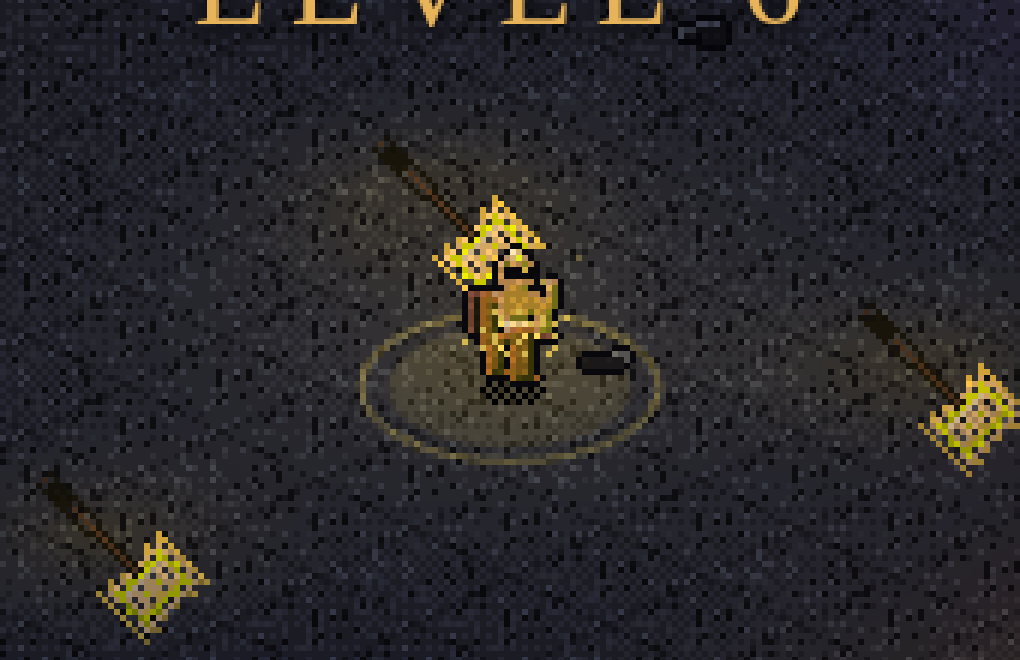
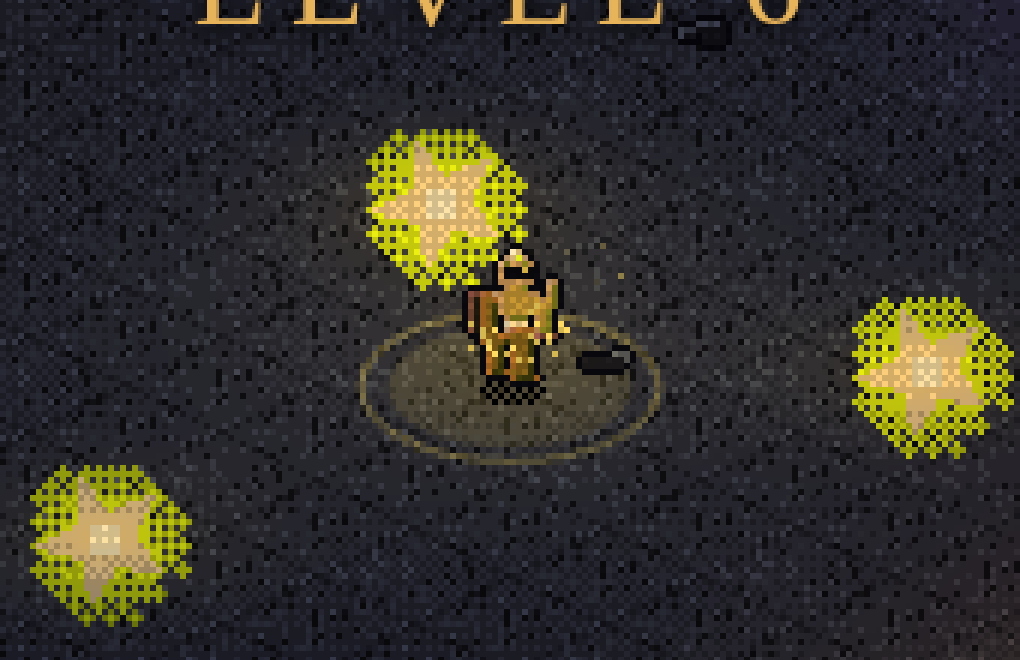
Rename Hammer of Gods Spin to Holy Smite, a turning star
The hidden paladin skill now circles a glowing five-pointed star instead
of the hammer: a new 'star' sprite with a bright core, six spin frames
and an ordered-dither halo that shimmers, casting the same warm light.
Stacking rings, timers and hit boxes are unchanged.

Claude-Session: https://claude.ai/code/session_01QTYkTZLkkmMsHgterwfJcv

diff --git a/src/data/skills.ts b/src/data/skills.ts
@@ -27,7 +27,7 @@ export interface BuffMods {
   /** Melee reach in px while active. */
   meleeRange?: number;
   /** Things circling the hero that cut what they pass: daggers by default, or one spinning hammer. `spin` is radians per second. */
-  orbitDaggers?: { count: number; radius: number; damageMult: number; hitCooldown: number; shape?: 'dagger' | 'hammer'; spin?: number; /** Hit box of each orbiter in px; it only strikes what it actually touches. */ hitRadius?: number; /** Recasting while active adds another ring, `ringGap` px further out, up to `stacks`; each ring keeps its own timer and the outermost goes when the oldest runs out. */ stacks?: number; ringGap?: number };
+  orbitDaggers?: { count: number; radius: number; damageMult: number; hitCooldown: number; shape?: 'dagger' | 'hammer' | 'star'; spin?: number; /** Hit box of each orbiter in px; it only strikes what it actually touches. */ hitRadius?: number; /** Recasting while active adds another ring, `ringGap` px further out, up to `stacks`; each ring keeps its own timer and the outermost goes when the oldest runs out. */ stacks?: number; ringGap?: number };
   /** Smoke bomb dropped when the buff ends. */
   endSmoke?: { radius: number; slowDuration: number };
 }
@@ -172,7 +172,7 @@ export const SKILLS: Record<string, SkillDef> = {
   ground_stomp: { id: 'ground_stomp', name: 'Ground Stomp', classId: K, tier: 'base', description: 'Stomp the ground, damaging and slowing nearby enemies.', manaCost: 30, cooldown: 7000, reqLevel: 15, element: 'physical', upgradesTo: 'ground_stomp_ult', effect: { kind: 'aoe', damageMult: 1.5, radius: 120, at: 'self', slow: 2000, visual: 'stomp' } },
   ground_stomp_ult: { id: 'ground_stomp_ult', name: 'Ground Stomp', classId: K, tier: 'ultimate', description: 'A quake that stuns everything in a wide circle.', manaCost: 50, cooldown: 18000, rank5Cooldown: 12000, rankBonus: 0.35, reqLevel: 20, element: 'physical', effect: { kind: 'aoe', damageMult: 2.0, radius: 300, at: 'self', stun: 2000, visual: 'stomp' } },
   prayer: { id: 'prayer', name: 'Prayer', classId: K, tier: 'pledge', pledgeId: 'paladin', description: 'Regenerate 5% of your life every second for ten seconds.', manaCost: 40, cooldown: 25000, rank5Cooldown: 16000, reqLevel: 10, element: 'physical', effect: { kind: 'buff', duration: 10000, mods: { regenPct: 5 } } },
-  hammer_of_gods_spin: { id: 'hammer_of_gods_spin', name: 'Hammer of Gods Spin', classId: K, tier: 'pledge', pledgeId: 'paladin', hidden: true, description: 'The holy hammer whirls around you for three seconds, striking everything it passes. Cast again while it spins for a second and a third hammer further out.', manaCost: 35, cooldown: 12000, rank5Cooldown: 7000, rankBonus: 0.35, reqLevel: 5, element: 'physical', effect: { kind: 'buff', duration: 3000, mods: { orbitDaggers: { count: 1, radius: 60, damageMult: 2.5, hitCooldown: 500, shape: 'hammer', spin: 7, hitRadius: 18, stacks: 3, ringGap: 40 } } } },
+  holy_smite: { id: 'holy_smite', name: 'Holy Smite', classId: K, tier: 'pledge', pledgeId: 'paladin', hidden: true, description: 'A holy star circles you for three seconds, striking everything it passes. Cast again while it turns for a second and a third star further out.', manaCost: 35, cooldown: 12000, rank5Cooldown: 7000, rankBonus: 0.35, reqLevel: 5, element: 'physical', effect: { kind: 'buff', duration: 3000, mods: { orbitDaggers: { count: 1, radius: 60, damageMult: 2.5, hitCooldown: 500, shape: 'star', spin: 7, hitRadius: 16, stacks: 3, ringGap: 40 } } } },
   hammer_of_gods: { id: 'hammer_of_gods', name: 'Hammer of Gods', classId: K, tier: 'pledge', pledgeId: 'paladin', description: 'Hurl a holy hammer that passes through everything and returns to you.', manaCost: 35, cooldown: 12000, rank5Cooldown: 7000, rankBonus: 0.35, reqLevel: 5, element: 'physical', effect: { kind: 'projectile', damageMult: 2.5, projSpeed: 840, maxRange: 350, pierce: Infinity, returns: true, throughWalls: true, shape: 'hammer', projRadius: 18 } },
   sanctuary: { id: 'sanctuary', name: 'Sanctuary', classId: K, tier: 'pledge', pledgeId: 'paladin', description: 'Consecrate the ground: +200 armor and +50% resistances while you stand in it.', manaCost: 50, cooldown: 40000, rank5Cooldown: 28000, reqLevel: 15, element: 'physical', effect: { kind: 'zone', zone: 'sanctuary', duration: 20000, radius: 300, mods: { armor: 200, allResists: 50 } } },
   rock_solid: { id: 'rock_solid', name: 'Rock Solid', classId: K, tier: 'pledge', pledgeId: 'titan', description: '+200 armor and a physical shield equal to your max life for ten seconds.', manaCost: 55, cooldown: 35000, rank5Cooldown: 22000, reqLevel: 15, element: 'physical', effect: { kind: 'buff', duration: 10000, mods: { armor: 200, shieldPct: 100, shieldPhysicalOnly: true } } },

diff --git a/src/sim/world.test.ts b/src/sim/world.test.ts
@@ -254,21 +254,21 @@ describe('bulk selling', () => {
 });
 
 describe('hidden skills', () => {
-  it('Hammer of Gods Spin stays off the list until the dev toggle shows it', () => {
+  it('Holy Smite stays off the list until the dev toggle shows it', () => {
     const ids = () => skillsFor('knight', 'paladin').map((s) => s.id);
-    expect(ids()).not.toContain('hammer_of_gods_spin');
+    expect(ids()).not.toContain('holy_smite');
     SKILL_RULES.showHidden = true;
-    expect(ids()).toContain('hammer_of_gods_spin');
+    expect(ids()).toContain('holy_smite');
     SKILL_RULES.showHidden = false;
   });
 
-  it('the spinning hammer circles the hero for three seconds and strikes what it passes', () => {
+  it('Holy Smite circles the hero for three seconds and strikes what it passes', () => {
     const w = new World(createPlayer('knight', 'paladin'), 141);
     w.travel('arena');
     w.player.level = 10;
     w.player.skillPoints = 5;
-    w.player.skillRanks.hammer_of_gods_spin = 1;
-    w.player.slots[1] = 'hammer_of_gods_spin';
+    w.player.skillRanks.holy_smite = 1;
+    w.player.slots[1] = 'holy_smite';
     const near = w.spawnEnemy(MONSTERS.ice_golem!, w.px + 1.9, w.pz); // on the 60 px ring
     const far = w.spawnEnemy(MONSTERS.ice_golem!, w.px + 6, w.pz);
     const inside = w.spawnEnemy(MONSTERS.blood_bat!, w.px - 0.3, w.pz); // a bat hugging the hero, well inside the ring
@@ -280,28 +280,28 @@ describe('hidden skills', () => {
     near.maxHp = near.hp = 100000;
     const farHp = far.hp;
     w.castSlot(1);
-    expect(w.buffs.some((b) => b.id === 'hammer_of_gods_spin')).toBe(true);
+    expect(w.buffs.some((b) => b.id === 'holy_smite')).toBe(true);
     run(w, 1);
     const afterOne = near.hp;
     expect(afterOne).toBeLessThan(100000);
     run(w, 2.5);
     expect(near.hp).toBeLessThan(afterOne);
     expect(far.hp).toBe(farHp);
-    // The hammer is a hit box on its path, not a field: a monster inside the ring is never touched
+    // The star is a hit box on its path, not a field: a monster inside the ring is never touched
     expect(inside.hp).toBe(insideHp);
-    expect(w.buffs.some((b) => b.id === 'hammer_of_gods_spin')).toBe(false);
+    expect(w.buffs.some((b) => b.id === 'holy_smite')).toBe(false);
   });
 
   it('recasting adds up to three rings, and the outermost goes when the oldest timer ends', () => {
     const w = new World(createPlayer('knight', 'paladin'), 142);
     w.travel('arena');
     w.player.level = 10;
-    w.player.skillRanks.hammer_of_gods_spin = 1;
-    w.player.slots[1] = 'hammer_of_gods_spin';
+    w.player.skillRanks.holy_smite = 1;
+    w.player.slots[1] = 'holy_smite';
     w.devStats.cdr = 90;
     w.recomputeStats();
     expect(w.derived.cdr).toBe(90);
-    const rings = () => w.buffs.find((b) => b.id === 'hammer_of_gods_spin')?.data.rings ?? 0;
+    const rings = () => w.buffs.find((b) => b.id === 'holy_smite')?.data.rings ?? 0;
     w.castSlot(1);
     run(w, 1);
     w.cooldowns = {};
@@ -311,7 +311,7 @@ describe('hidden skills', () => {
     w.castSlot(1);
     expect(rings()).toBe(3);
     w.cooldowns = {};
-    expect(castSkill(w, 'hammer_of_gods_spin', null).ok).toBe(false); // three is the limit
+    expect(castSkill(w, 'holy_smite', null).ok).toBe(false); // three is the limit
     run(w, 1.05); // the first ring's three seconds are up
     expect(rings()).toBe(2);
     run(w, 1);

diff --git a/src/gen/pixel/props.ts b/src/gen/pixel/props.ts
@@ -297,6 +297,56 @@ export function projectileProp(shape: ProjectileShape, color: number, pal: Palet
       frames.push(b.toCanvas());
       return prop(frames, 6 * s, s, 1);
     }
+    case 'star': {
+      // A holy star: a five-pointed star of light with a bright core and a
+      // flickering halo, turning through six angles
+      const N = 30 * s;
+      const C = 15 * s;
+      const glow = ramp(0xffe070, pal.contrast);
+      for (let f = 0; f < 6; f++) {
+        const b = new PixelBuffer(N, N);
+        const rot = (f / 6) * ((Math.PI * 2) / 5);
+        const outer = 12 * s;
+        const inner = 5 * s;
+        const pts: [number, number][] = [];
+        for (let k = 0; k < 10; k++) {
+          const a = rot + (k / 10) * Math.PI * 2 - Math.PI / 2;
+          const rr = k % 2 === 0 ? outer : inner;
+          pts.push([C + Math.cos(a) * rr, C + Math.sin(a) * rr]);
+        }
+        // Halo first, dithered and shifting so it flickers
+        for (let y = 0; y < N; y++) {
+          for (let x = 0; x < N; x++) {
+            const d = Math.hypot(x - C, y - C);
+            if (d > outer + 2 * s || d < inner) continue;
+            const density = Math.max(0, 1 - (d - inner) / (outer + 2 * s - inner));
+            // Ordered 4x4 dither, shifted a row per frame so the glow shimmers instead of streaking
+            const bayer = [0, 8, 2, 10, 12, 4, 14, 6, 3, 11, 1, 9, 15, 7, 13, 5][((y + f) % 4) * 4 + (x % 4)]!;
+            if (bayer < density * 0.45 * 16) b.set(x, y, glow[0]);
+          }
+        }
+        // Fill the star: a point is inside when it is inside any of the five kite triangles from the centre
+        for (let y = 0; y < N; y++) {
+          for (let x = 0; x < N; x++) {
+            let inside = false;
+            for (let k = 0; k < 10 && !inside; k++) {
+              const [ax, ay] = pts[k]!;
+              const [bx, by] = pts[(k + 1) % 10]!;
+              const d1 = (bx - ax) * (y - ay) - (by - ay) * (x - ax);
+              const d2 = (C - bx) * (y - by) - (C - by) * (x - bx);
+              const d3 = (ax - C) * (y - C) - (ay - C) * (x - C);
+              inside = (d1 >= 0 && d2 >= 0 && d3 >= 0) || (d1 <= 0 && d2 <= 0 && d3 <= 0);
+            }
+            if (!inside) continue;
+            const d = Math.hypot(x - C, y - C);
+            b.set(x, y, d < 3 * s ? glow[3] : glow[2]);
+          }
+        }
+        b.outline(glow[0]);
+        frames.push(b.toCanvas());
+      }
+      return prop(frames, C, C, 0.03);
+    }
     case 'hammer': {
       // A holy war hammer a head taller than the hero, spinning fast through
       // eight angles: a long haft with a wrapped grip and a broad golden head

diff --git a/src/render2d/pixelView.ts b/src/render2d/pixelView.ts
@@ -834,7 +834,7 @@ export class PixelView {
       const od = b.mods.orbitDaggers;
       if (!od) continue;
       const shape: ProjectileShape = od.shape ?? 'dagger';
-      const color = shape === 'hammer' ? 0xffd860 : 0xe8e0d0;
+      const color = shape === 'hammer' ? 0xffd860 : shape === 'star' ? 0xffe070 : 0xe8e0d0;
       const prop = this.projectileProp(shape, color);
       const rings = od.stacks ? b.data.rings ?? 1 : 1;
       for (let ring = 0; ring < rings; ring++) {
@@ -849,7 +849,7 @@ export class PixelView {
         // Daggers point along their path; the hammer's own frames spin it
         const tx = Math.cos(a);
         const tz = -Math.sin(a);
-        const angle = shape === 'hammer' ? 0 : Math.atan2((tx + tz) / 2, tx - tz);
+        const angle = shape === 'hammer' || shape === 'star' ? 0 : Math.atan2((tx + tz) / 2, tx - tz);
         const frame = prop.frames[Math.floor(this.time / prop.frameTime + i) % prop.frames.length]!;
         this.items.push({
           depth: cam.depth(ox, oz) + 0.01,
@@ -861,7 +861,7 @@ export class PixelView {
             ctx.restore();
           },
         });
-        if (shape === 'hammer') {
+        if (shape === 'hammer' || shape === 'star') {
           const [lr, lg, lb] = rgb(color);
           this.lights.push({ x: fx, y: fy, radius: 50, intensity: 0.85 + Math.sin(this.time * 12) * 0.15, r: lr, g: lg, b: lb });
         }

diff --git a/src/sim/types.ts b/src/sim/types.ts
@@ -60,7 +60,7 @@ export interface Enemy {
   aggro: boolean;
 }
 
-export type ProjectileShape = 'bolt' | 'ball' | 'dagger' | 'arrow' | 'hammer' | 'boulder' | 'enemy_bolt';
+export type ProjectileShape = 'bolt' | 'ball' | 'dagger' | 'arrow' | 'hammer' | 'star' | 'boulder' | 'enemy_bolt';
 
 export interface DamagePacket {
   amount: number;

diff --git a/docs/design/systems-reference.md b/docs/design/systems-reference.md
@@ -96,7 +96,7 @@ strip on the left (`src/ui/game/devMenu.ts`) with a slider and Apply button
 for movement speed, cooldown reduction, cast rate, crit, resistances, armour,
 block, evasion, range, projectile speed, gold find and magic find, a
 Give weapon row (a common Sword, Spear, Mace, Bardiche, Wand, Staff, Dagger, Bow,
-Spellbook or Warpike dropped into the bag), rows for offhands, set pieces and divines, an item maker (any base at any rarity and level 1-1000, hand-written items keep their rarity), a Special skills toggle that offers skills marked `hidden` on the Skills tab (`SKILL_RULES.showHidden`; today Hammer of Gods Spin, a paladin buff that whirls the hammer around the hero for three seconds via `orbitDaggers` with `shape: 'hammer'`; recasting while it spins adds a second and third hammer 40 px further out, each ring on its own three-second timer, the outermost dropping when the oldest ends; every orbiter, daggers included, is a real hit box at its drawn spot (`orbiterPlace`, `hitRadius`) and strikes only what it touches) and a Level up button. The bonuses live in `World.devStats`, add to the character
+Spellbook or Warpike dropped into the bag), rows for offhands, set pieces and divines, an item maker (any base at any rarity and level 1-1000, hand-written items keep their rarity), a Special skills toggle that offers skills marked `hidden` on the Skills tab (`SKILL_RULES.showHidden`; today Holy Smite, a paladin buff that circles a holy star around the hero for three seconds via `orbitDaggers` with `shape: 'star'`; recasting while it turns adds a second and third star 40 px further out, each ring on its own three-second timer, the outermost dropping when the oldest ends; every orbiter, daggers included, is a real hit box at its drawn spot (`orbiterPlace`, `hitRadius`) and strikes only what it touches) and a Level up button. The bonuses live in `World.devStats`, add to the character
 sheet and are never saved. Delete the file and the key before release.
 
 ## Known gaps
